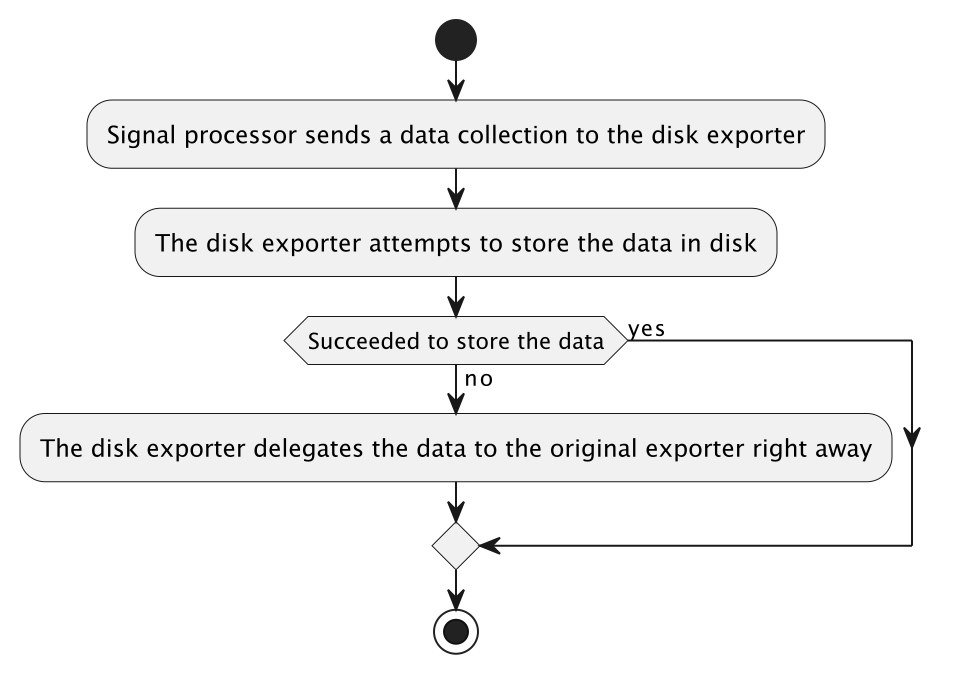
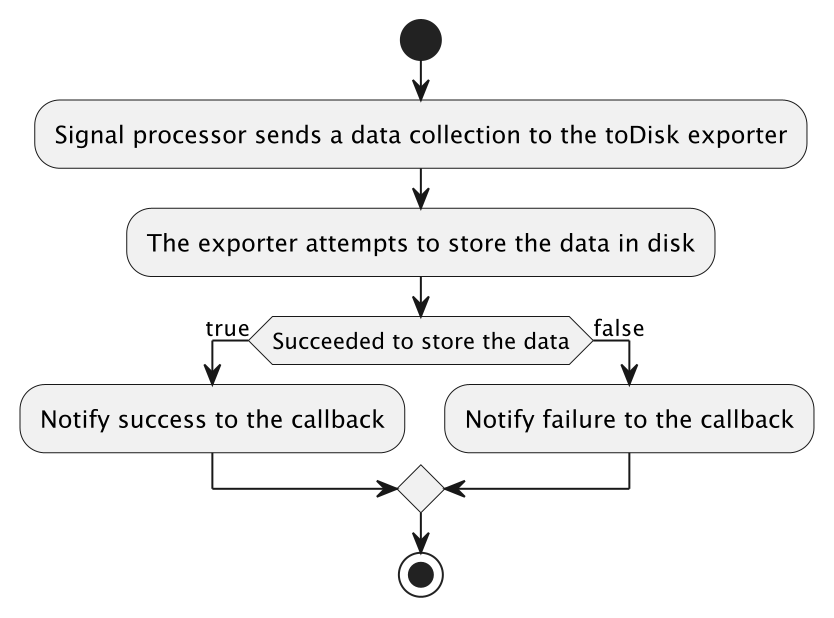
Updating DESIGN.md

Changed region(s): [[0.0, 0.0307, 0.9664, 0.9838]]

diff --git a/disk-buffering/DESIGN.md b/disk-buffering/DESIGN.md
@@ -1,59 +1,62 @@
 # Design Overview
 
-There are three main disk-writing exporters provided by this module:
+The core of disk buffering
+is [SignalStorage](src/main/java/io/opentelemetry/contrib/disk/buffering/storage/SignalStorage.java).
+SignalStorage is an abstraction that defines the bare minimum functionalities needed for
+implementations to allow writing and reading signals.
 
-* [LogRecordToDiskExporter](src/main/java/io/opentelemetry/contrib/disk/buffering/LogRecordToDiskExporter.java)
-* [MetricToDiskExporter](src/main/java/io/opentelemetry/contrib/disk/buffering/MetricToDiskExporter.java)
-* [SpanToDiskExporter](src/main/java/io/opentelemetry/contrib/disk/buffering/SpanToDiskExporter.java))
+There is a default implementation per signal that writes serialized signal items to protobuf
+delimited messages into files, where each file's name represents a timestamp of when it was created,
+which will help later to know when it's ready to read, as well as when it's expired. These
+implementations are the following:
 
-Each is responsible for writing a specific type of telemetry to disk storage for later
-harvest/ingest.
+* [FileSpanStorage](src/main/java/io/opentelemetry/contrib/disk/buffering/storage/impl/FileSpanStorage.java)
+* [FileLogRecordStorage](src/main/java/io/opentelemetry/contrib/disk/buffering/storage/impl/FileLogRecordStorage.java)
+* [FileMetricStorage](src/main/java/io/opentelemetry/contrib/disk/buffering/storage/impl/FileMetricStorage.java)
 
-For later reading, there are:
+Each one has a `create()` method that takes a destination directory (to store data into) and an
+optional [FileStorageConfiguration](src/main/java/io/opentelemetry/contrib/disk/buffering/storage/impl/FileStorageConfiguration.java)
+to have a finer control of the storing behavior.
 
-* [LogRecordFromToDiskExporter](src/main/java/io/opentelemetry/contrib/disk/buffering/LogRecordFromDiskExporter.java)
-* [MetricFromDiskExporter](src/main/java/io/opentelemetry/contrib/disk/buffering/MetricFromDiskExporter.java)
-* [SpanFromDiskExporter](src/main/java/io/opentelemetry/contrib/disk/buffering/SpanFromDiskExporter.java))
+Even
+though [SignalStorage](src/main/java/io/opentelemetry/contrib/disk/buffering/storage/SignalStorage.java)
+can receive signal items directly to be stored in disk, there are convenience exporter
+implementations for each signal that handle the storing process on your behalf. Those are the
+following:
 
-Each one of those has a `create()` method that takes a delegate exporter (to send data
-to ingest) and the `StorageConfiguration` that tells them where to find buffered data.
+* [SpanToDiskExporter](src/main/java/io/opentelemetry/contrib/disk/buffering/exporters/SpanToDiskExporter.java)
+* [LogRecordToDiskExporter](src/main/java/io/opentelemetry/contrib/disk/buffering/exporters/LogRecordToDiskExporter.java)
+* [MetricToDiskExporter](src/main/java/io/opentelemetry/contrib/disk/buffering/exporters/MetricToDiskExporter.java)
 
-As explained in the [README](README.md), this has to be triggered manually by the consumer of
-this library and does not happen automatically.
+Each receive their
+respective [SignalStorage](src/main/java/io/opentelemetry/contrib/disk/buffering/storage/SignalStorage.java)
+object to delegate signals to as well as an optional callback object to notify its operations.
 
 ## Writing overview
 
 ![Writing flow](assets/writing-flow.png)
 
-* The writing process happens automatically within its `export(Collection<SignalData> signals)`
-  method, which is called by the configured signal processor.
-* When a set of signals is received, these are delegated over to
-  a type-specific wrapper of [ToDiskExporter](src/main/java/io/opentelemetry/contrib/disk/buffering/internal/exporter/ToDiskExporter.java)
-  class which then serializes them using an implementation
-  of [SignalSerializer](src/main/java/io/opentelemetry/contrib/disk/buffering/internal/serialization/serializers/SignalSerializer.java)
-  and then the serialized data is appended into a File using an instance of
-  the [Storage](src/main/java/io/opentelemetry/contrib/disk/buffering/internal/storage/Storage.java)
-  class.
+* Via the convenience toDisk exporters, the writing process happens automatically within their
+  `export(Collection<SignalData> signals)` method, which is called by the configured signal
+  processor.
+* When a set of signals is received, these are delegated over to a type-specific serializer
+  and then the serialized data is appended into a file.
 * The data is written into a file directly, without the use of a buffer, to make sure no data gets
   lost in case the application ends unexpectedly.
-* Each disk exporter stores its signals in its own folder, which is expected to contain files
+* Each signal storage stores its signals in its own folder, which is expected to contain files
   that belong to that type of signal only.
 * Each file may contain more than a batch of signals if the configuration parameters allow enough
   limit size for it.
 * If the configured folder size for the signals has been reached and a new file is needed to be
   created to keep storing new data, the oldest available file will be removed to make space for the
   new one.
-* The [Storage](src/main/java/io/opentelemetry/contrib/disk/buffering/internal/storage/Storage.java),
-  [FolderManager](src/main/java/io/opentelemetry/contrib/disk/buffering/internal/storage/FolderManager.java)
-  and [WritableFile](src/main/java/io/opentelemetry/contrib/disk/buffering/internal/storage/files/WritableFile.java)
-  files contain more information on the details of the writing process into a file.
 
 ## Reading overview
 
 ![Reading flow](assets/reading-flow.png)
 
-* The reading process has to be triggered manually by the library consumer as explained in
-  the [README](README.md).
+* The reading process has to be triggered manually by the library consumer via the signal storage
+  iterator.
 * A single file is read at a time and updated to remove the data gathered from it after it is
   successfully exported, until it's emptied. Each file previously created during the
   writing process has a timestamp in milliseconds, which is used to determine what file to start
@@ -62,9 +65,3 @@ this library and does not happen automatically.
   the time of creating the disk exporter, then it will be ignored, and the next oldest (and
   unexpired) one will be used instead.
 * All the stale and empty files will be removed as a new file is created.
-* The [Storage](src/main/java/io/opentelemetry/contrib/disk/buffering/internal/storage/Storage.java),
-  [FolderManager](src/main/java/io/opentelemetry/contrib/disk/buffering/internal/storage/FolderManager.java)
-  and [ReadableFile](src/main/java/io/opentelemetry/contrib/disk/buffering/internal/storage/files/ReadableFile.java)
-  files contain more information on the details of the file reading process.
-* Note that the reader delegates the data to the exporter exactly in the way it has received the
-  data - it does not try to batch data (but this could be an optimization in the future).
